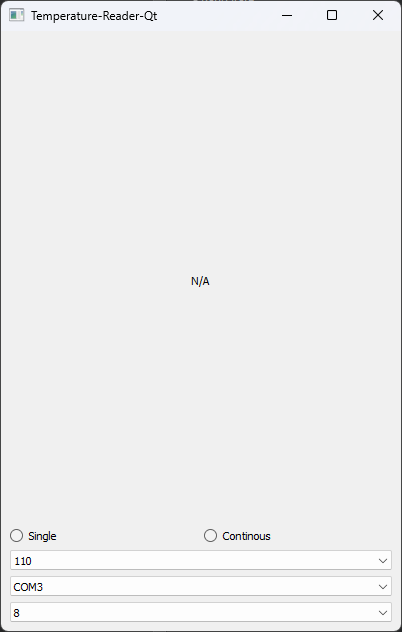
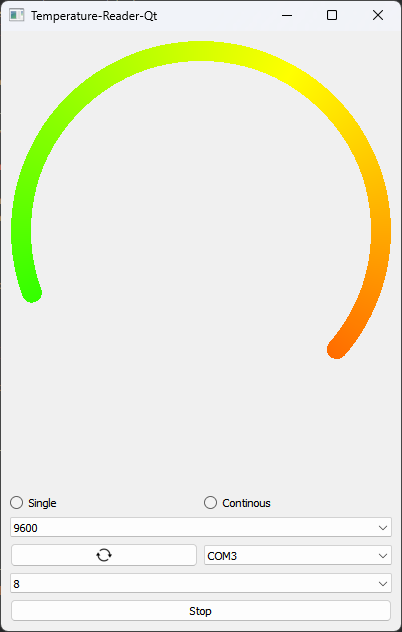
add: gradient arc that moves with temperature read
- TODO: fix jitterness, make smooth animations

Changed region(s): [[0.0, 0.7816, 0.9851, 0.9921], [0.0299, 0.0601, 0.9851, 0.5712], [0.4776, 0.4209, 0.5373, 0.4509]]

diff --git a/mainwidget.cpp b/mainwidget.cpp
@@ -38,14 +38,14 @@ MainWidget::MainWidget(QWidget *parent)
     }
 
     // configure defaults
-    serialPort->setBaudRate(baudRateListView->currentData().toInt(), QSerialPort::Input); // TODO: read only for now
+    serialPort->setBaudRate(baudRateListView->currentText().toInt(), QSerialPort::Input); // TODO: read only for now
     serialPort->setPortName(portListView->currentText());
     serialPort->setDataBits(QSerialPort::Data8);
     serialPort->setParity(QSerialPort::NoParity);
     serialPort->setStopBits(QSerialPort::OneStop);
 
     refreshRate = new QTimer(this);
-    connect(refreshRate, &QTimer::timeout, this, &MainWidget::readUARTData);
+    connect(refreshRate, &QTimer::timeout, this, QOverload<>::of(&MainWidget::update));
 
     // setup button trigger
     connect(mainScreen.startButton, &QPushButton::clicked, this, &MainWidget::startReading);
@@ -54,6 +54,28 @@ MainWidget::MainWidget(QWidget *parent)
     buffer = (char *)malloc(2 * sizeof(char));
 
     connect(mainScreen.portRefreshButton, &QPushButton::clicked, this, &MainWidget::refreshPortList);
+
+    painterCanvasWidget = mainScreen.temperatureWidget;
+
+    // TODO: set this to green, yello, orange, red
+    QConicalGradient gradient;
+
+    // TODO: derive these magic constants
+    painterRect.setRect(20, 20, 360, 360);
+
+    gradient.setCenter(painterRect.center());
+    gradient.setAngle(240);
+    gradient.setColorAt(0, Qt::red);
+    gradient.setColorAt(0.5, Qt::yellow);
+    gradient.setColorAt(1, Qt::green);
+
+    QBrush paintBrush(gradient);
+
+    painterPen.setCapStyle(Qt::RoundCap);
+    painterPen.setWidth(20);
+    painterPen.setBrush(paintBrush);
+
+    connect(baudRateListView, QOverload<int>::of(&QComboBox::currentIndexChanged), this, &MainWidget::baudRateChanged);
 }
 
 MainWidget::~MainWidget() {
@@ -61,12 +83,21 @@ MainWidget::~MainWidget() {
     free(buffer);
 }
 
-void MainWidget::readUARTData(void) {
-    int bytesRead = 0;
-    bytesRead = serialPort->read(buffer, 2);
+void MainWidget::paintEvent(QPaintEvent* /*event*/) {
+    QPainter temperatureWidgetPainter(this);
+    temperatureWidgetPainter.setPen(painterPen);
 
-    // TODO: check bytesRead here
-    temperatureLabel->setText(buffer);
+    if(running) {
+        QByteArray bytesRead = serialPort->read(2);
+
+        // TODO: check bytesRead here
+        temperatureLabel->setText(bytesRead);
+
+        int percentageOfArc = QString(bytesRead).toInt();
+
+        int finalArc = (160 + percentageOfArc) * -1;
+        temperatureWidgetPainter.drawArc(painterRect, -160*16, finalArc * 16);
+    }
 }
 
 void MainWidget::startReading(bool clicked)
@@ -78,15 +109,15 @@ void MainWidget::startReading(bool clicked)
             temperatureLabel->setText("Port Open Failed");
             return;
         }
-        refreshRate->start(100);
+        refreshRate->start(1000);
         mainScreen.startButton->setText("Stop");
         running = true;
     }
     else {
+        serialPort->close();
         refreshRate->stop();
         running = false;
         mainScreen.startButton->setText("Start");
-        serialPort->close();
         temperatureLabel->setText("N/A");
     }
 }
@@ -103,5 +134,17 @@ void MainWidget::refreshPortList(bool clicked) {
         portListView->addItem(item->portName());
     }
 
+}
+
+void MainWidget::baudRateChanged(int index) {
+    // stop serial port and set port property
+    if(running) {
+        refreshRate->stop();
+        running = false;
+        mainScreen.startButton->setText("Start");
+        temperatureLabel->setText("N/A");
+    }
+    serialPort->close();
+    serialPort->setBaudRate(baudRateListView->itemText(index).toInt(), QSerialPort::Input);
 }
 

diff --git a/mainwidget.h b/mainwidget.h
@@ -7,6 +7,7 @@
 #include <QSerialPort>
 #include <QTimer>
 #include <QIODevice>
+#include <QPainter>
 
 #include "ui_MainWidget.h"
 
@@ -23,6 +24,9 @@ class MainWidget : public QWidget
     QTimer *refreshRate;
     QSerialPort *serialPort;
     QLabel *temperatureLabel;
+    QWidget *painterCanvasWidget;
+    QRect painterRect;
+    QPen painterPen;
 
     bool running = false;
     char *buffer = nullptr;
@@ -31,8 +35,9 @@ public:
     ~MainWidget();
 
 private slots:
-    void readUARTData(void);
     void startReading(bool);
+    void paintEvent(QPaintEvent* /*event*/) override;
     void refreshPortList(bool);
+    void baudRateChanged(int index);
 };
 #endif // MAINWIDGET_H
